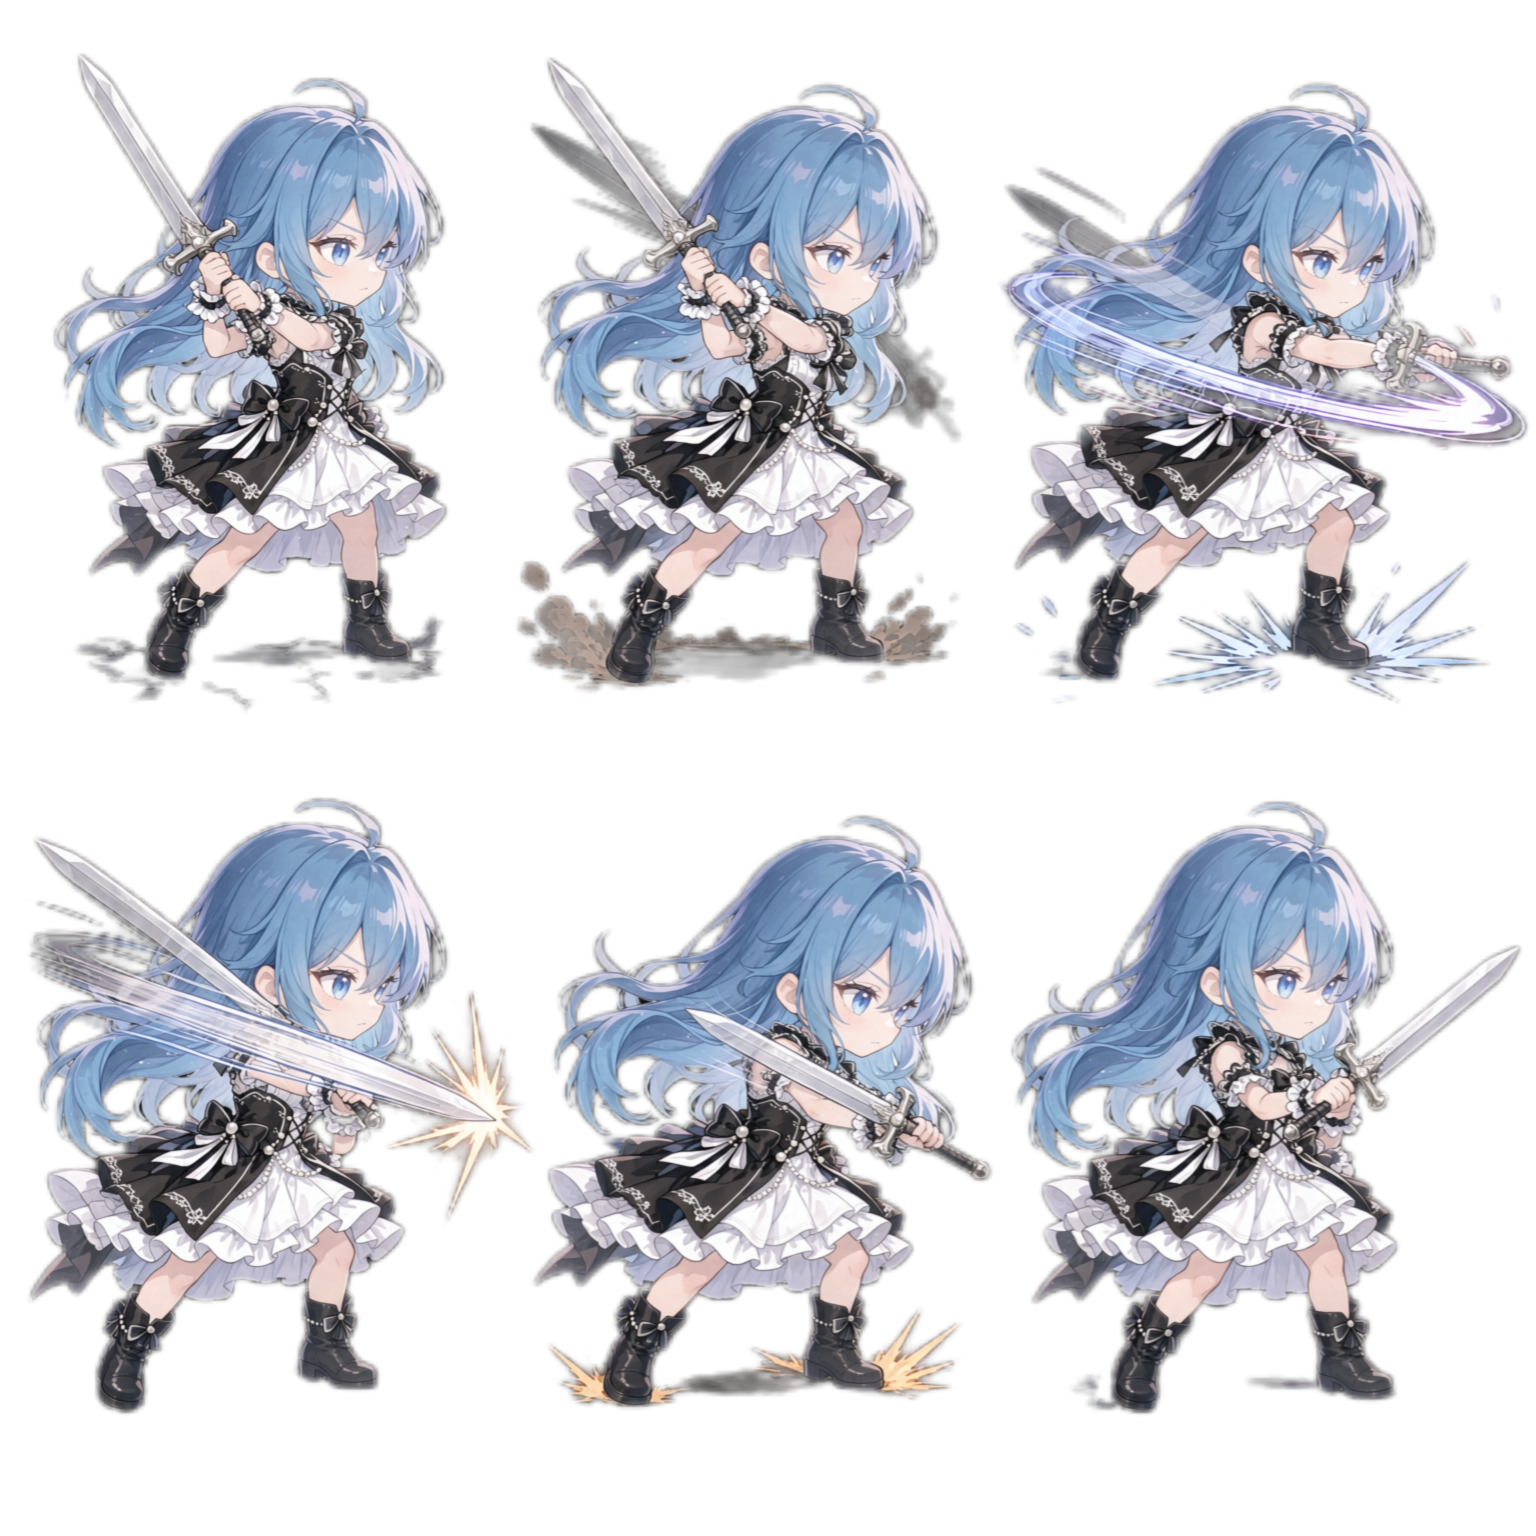
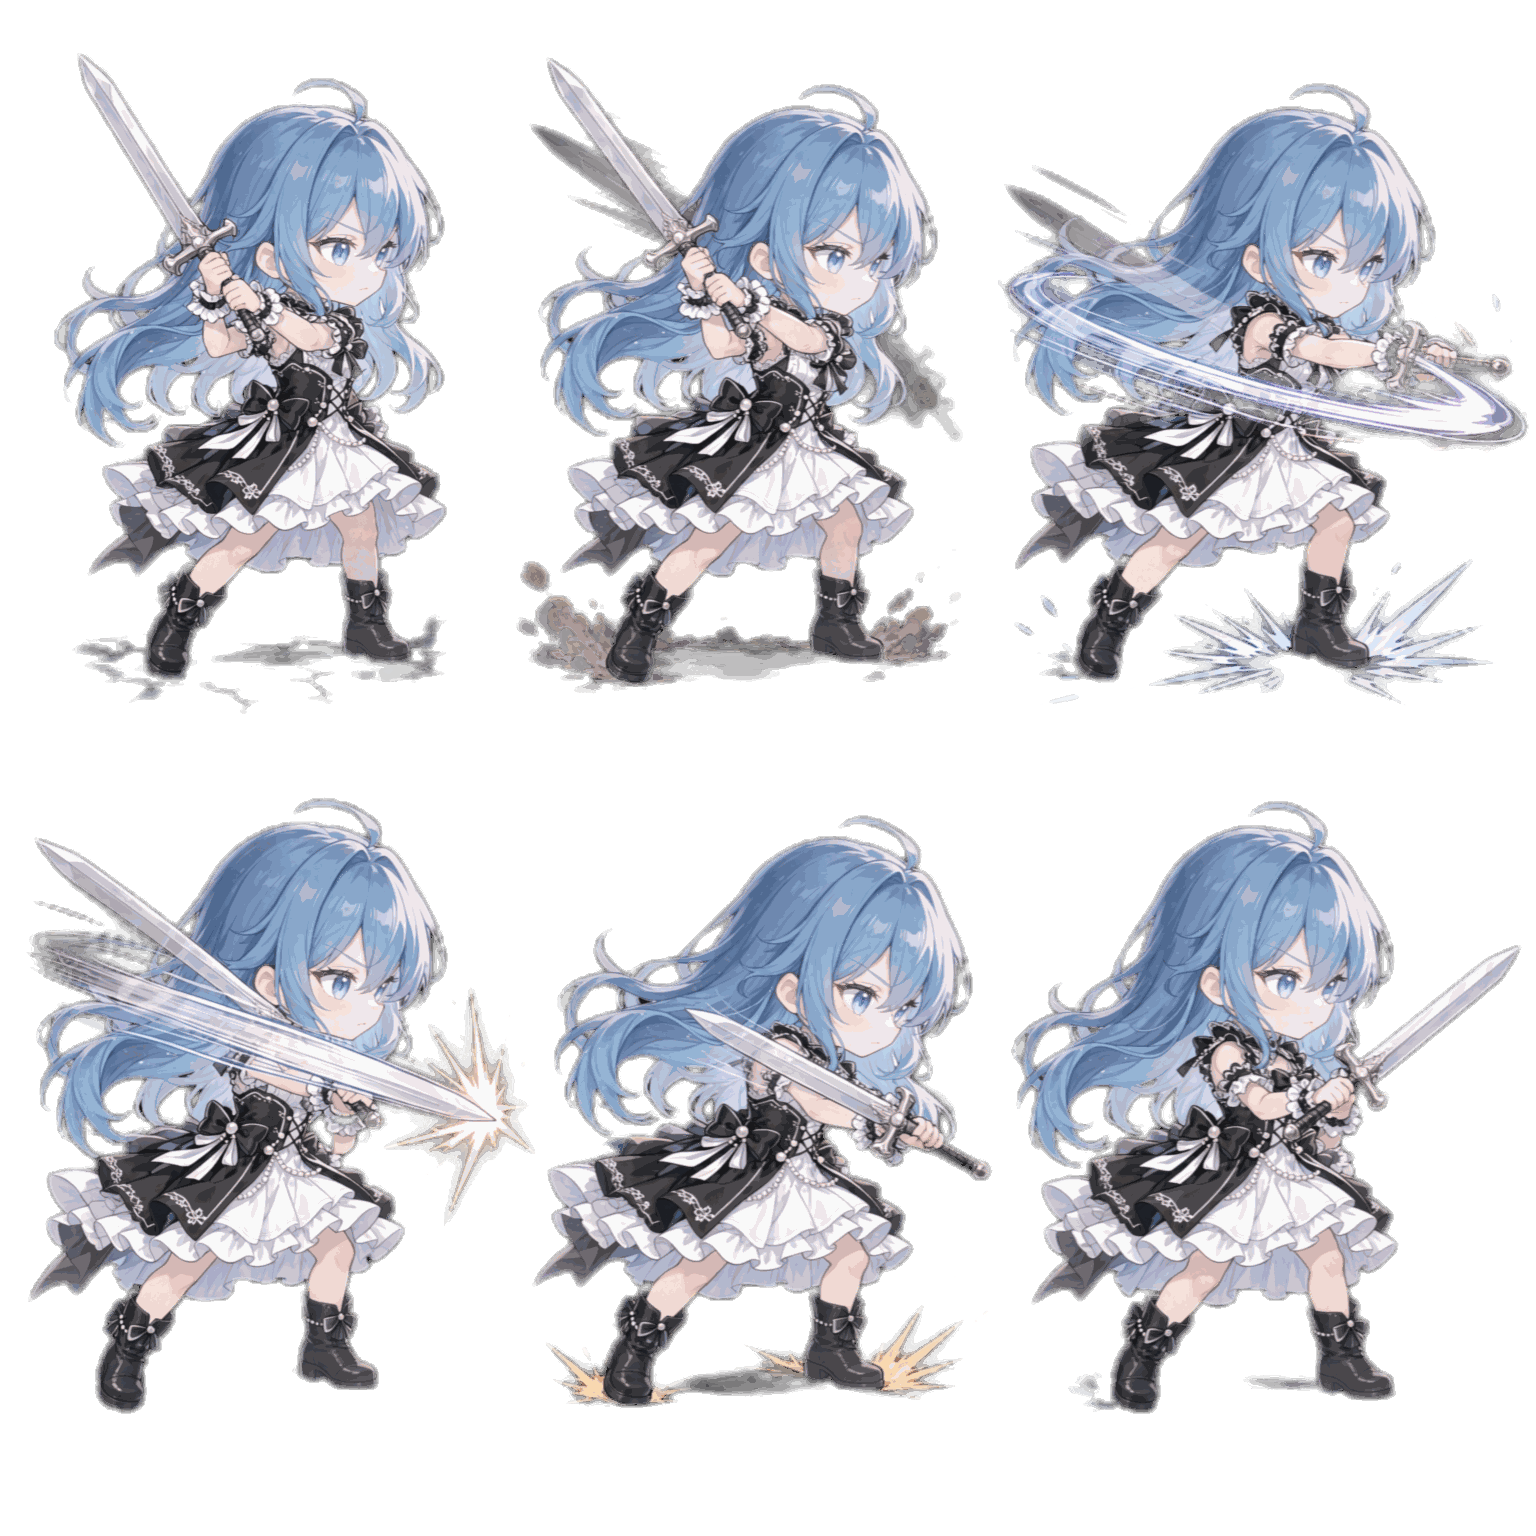
改用精灵图方案：压缩角色精灵图(2.3MB→0.46MB)，删除6张独立帧图

Changed region(s): [[0.5625, 0.875, 0.5938, 0.9062]]

diff --git a/index.html b/index.html
@@ -19,11 +19,14 @@
     display: flex; flex-direction: column;
     align-items: center; justify-content: center;
   }
-  /* 容器宽高比 2:3（512:768），保持帧不拉伸 */
+  /* 精灵图：2 行 x 3 列，容器宽高比 2:3，背景图放大到 300% x 200% 切帧 */
   .character {
-    width: 36vmin;          /* 高度 = 36 * 3/2 = 54vmin */
+    width: 36vmin;
     height: 54vmin;
-    object-fit: contain;    /* 防止图片超出容器 */
+    background-image: url(MEITU_20260810_070740175.png);
+    background-repeat: no-repeat;
+    background-size: 300% 200%;
+    background-position: 0% 0%;
     image-rendering: -webkit-optimize-contrast;
   }
   .hint {
@@ -52,7 +55,7 @@
 </head>
 <body>
   <div class="stage">
-    <img class="character" id="char" src="frame_1.png" alt="character">
+    <div class="character" id="char"></div>
     <button class="btn" id="atkBtn">⚔ 攻击 (空格)</button>
     <div class="combo-hud" id="combo">连击: 0</div>
     <div class="hint">按 [空格] 或 [J] 攻击<br>连续攻击从第 2 帧开始循环</div>
@@ -60,38 +63,23 @@
 
 <script>
 (function(){
-  // 6 张独立帧的 src（预切好的 PNG，3x2 网格顺序：1~6 = 左上→右上→左下→右下）
-  const FRAMES = [
-    'frame_1.png',  // 1 举剑准备
-    'frame_2.png',  // 2 蓄力
-    'frame_3.png',  // 3 挥剑（命中）
-    'frame_4.png',  // 4 收剑中
-    'frame_5.png',  // 5 收剑完成
-    'frame_6.png'   // 6 站定
+  const SPRITE = 'MEITU_20260810_070740175.png';
+
+  // 6 帧在精灵图中的位置（2 行 x 3 列，帧序 1~6 = 左上→右上→左下→右下）
+  const POSITIONS = [
+    '0% 0%',      // 1 举剑准备
+    '50% 0%',     // 2 蓄力
+    '100% 0%',    // 3 挥剑（命中）
+    '0% 100%',    // 4 收剑中
+    '50% 100%',   // 5 收剑完成
+    '100% 100%'   // 6 站定
   ];
 
-  // ========== 修复：页面加载时预加载全部帧图 ==========
-  // 避免攻击动画开始时才从网络下载图片，弱网/手机浏览器下
-  // 图片加载跟不上帧切换节奏，导致角色看起来不动。
-  const preloaded = FRAMES.map(src => {
-    const img = new Image();
-    img.src = src;
-    return img;
-  });
-  // 切换帧时若图片还没加载完，等它加载完成再切，兜底防跳帧
-  function showFrame(n) {
-    const src = FRAMES[n - 1];
-    const cache = preloaded[n - 1];
-    if (cache && !cache.complete) {
-      cache.onload = () => { if (charEl.src.endsWith(src)) charEl.src = src; };
-      return;
-    }
-    charEl.src = src;
-  }
-  // ==================================================
+  // 页面加载时预加载精灵图，确保首次攻击立即可用
+  const preloaded = new Image();
+  preloaded.src = SPRITE;
 
   // 节奏方案：6快→1慢→2稍慢→3快→4稍慢→5慢，总时长 2000ms
-  // 用 1~6 表示图片序号，dur = 该帧停留时长
   const SEQUENCE = [
     { idx: 6, dur: 200 },  // 6（蓄力快闪）
     { idx: 1, dur: 400 },  // 1（出剑慢）
@@ -100,7 +88,6 @@
     { idx: 4, dur: 350 },  // 4（收招稍慢）
     { idx: 5, dur: 500 }   // 5（完全收招慢）
   ];
-  // 连击时跳过第 6 张（idx=6），从 1 开始循环 1→2→3→4→5
   const COMBO_SEQUENCE = SEQUENCE.slice(1);
 
   const charEl = document.getElementById('char');
@@ -108,12 +95,16 @@
   const comboEl = document.getElementById('combo');
 
   let timers = [];
-  let firstAttack = true;   // 是否首次攻击（决定要不要播第6张）
+  let firstAttack = true;
   let combo = 0;
 
   function clearTimers() {
     timers.forEach(t => clearTimeout(t));
     timers = [];
+  }
+
+  function showFrame(n) {
+    charEl.style.backgroundPosition = POSITIONS[n - 1];
   }
 
   function playAttack() {
@@ -124,7 +115,6 @@
     const seq = firstAttack ? SEQUENCE : COMBO_SEQUENCE;
     firstAttack = false;
 
-    // 立即显示第一帧
     showFrame(seq[0].idx);
 
     let acc = 0;
@@ -138,7 +128,6 @@
       timers.push(t);
     }
 
-    // 攻击结束 → 回到站姿（帧 1）
     const endT = setTimeout(() => {
       showFrame(1);
     }, acc + 50);
@@ -156,7 +145,7 @@
   // 按钮控制
   btnEl.addEventListener('click', playAttack);
 
-  // 初始显示站姿
+  // 初始显示站姿（帧 1）
   showFrame(1);
 })();
 </script>
